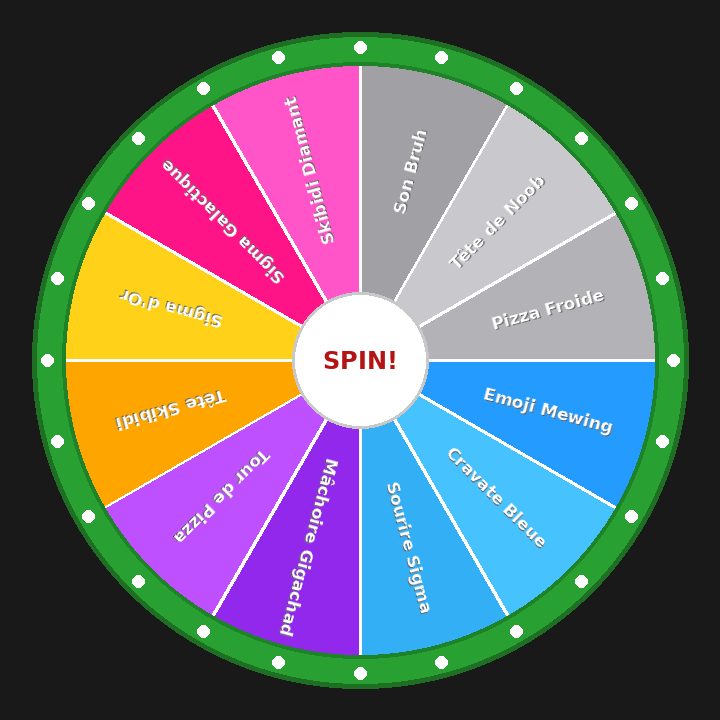
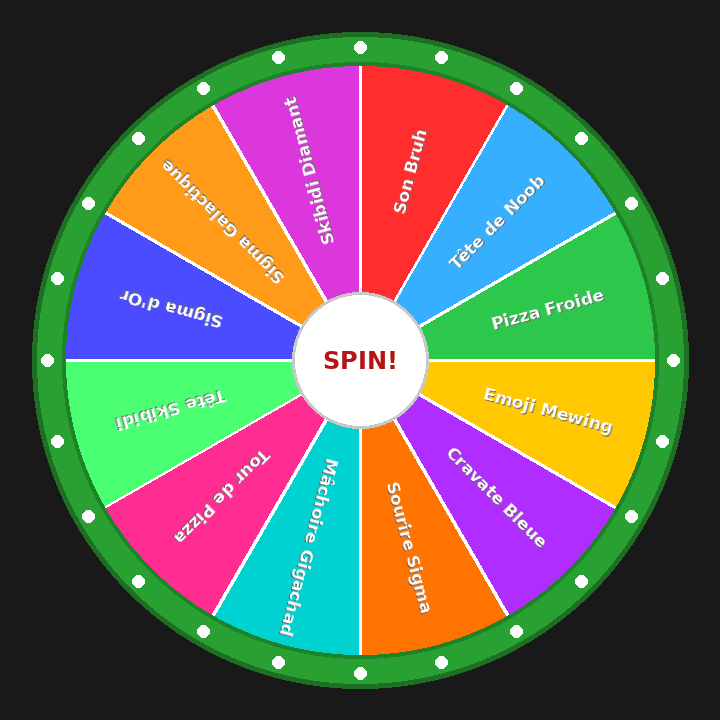
fix: proper solid pizza slices — N_THIN 4→30, 12 vibrant rainbow colors, remove pink ring

diff --git a/generate_wheel.py b/generate_wheel.py
@@ -18,19 +18,19 @@ CENTER_R = 68    # rayon du moyeu "SPIN!"
 
 # ── Couleurs par rareté (même palette que le jeu Roblox) ────────────────────
 SEGMENT_DATA = [
-    # (Nom,                 couleur RGB)
-    ("Son Bruh",            (160, 160, 165)),   # NORMAL  shade 1
-    ("Tête de Noob",        (200, 200, 205)),   # NORMAL  shade 2
-    ("Pizza Froide",        (178, 178, 183)),   # NORMAL  shade 3
-    ("Emoji Mewing",        ( 35, 155, 255)),   # RARE    shade 1
-    ("Cravate Bleue",       ( 70, 195, 255)),   # RARE    shade 2
-    ("Sourire Sigma",       ( 50, 175, 245)),   # RARE    shade 3
-    ("Mâchoire Gigachad",   (145,  40, 235)),   # MYTHIC  shade 1
-    ("Tour de Pizza",       (190,  80, 255)),   # MYTHIC  shade 2
-    ("Tête Skibidi",        (255, 165,   0)),   # LEGENDARY shade 1
-    ("Sigma d'Or",          (255, 210,  25)),   # LEGENDARY shade 2
-    ("Sigma Galactique",    (255,  20, 135)),   # ULTRA   shade 1
-    ("Skibidi Diamant",     (255,  85, 200)),   # ULTRA   shade 2
+    # (Nom,                 couleur RGB)  — même palette que WheelController.lua
+    ("Son Bruh",            (255,  45,  45)),   # 1  Rouge vif
+    ("Tête de Noob",        ( 55, 175, 255)),   # 2  Bleu ciel
+    ("Pizza Froide",        ( 45, 200,  75)),   # 3  Vert
+    ("Emoji Mewing",        (255, 200,   0)),   # 4  Jaune or
+    ("Cravate Bleue",       (175,  45, 255)),   # 5  Violet
+    ("Sourire Sigma",       (255, 115,   0)),   # 6  Orange
+    ("Mâchoire Gigachad",   (  0, 210, 210)),   # 7  Turquoise
+    ("Tour de Pizza",       (255,  45, 145)),   # 8  Rose vif
+    ("Tête Skibidi",        ( 75, 255, 115)),   # 9  Vert lime
+    ("Sigma d'Or",          ( 75,  75, 255)),   # 10 Bleu roi
+    ("Sigma Galactique",    (255, 155,  25)),   # 11 Ambre
+    ("Skibidi Diamant",     (220,  55, 220)),   # 12 Magenta
 ]
 
 N   = len(SEGMENT_DATA)
